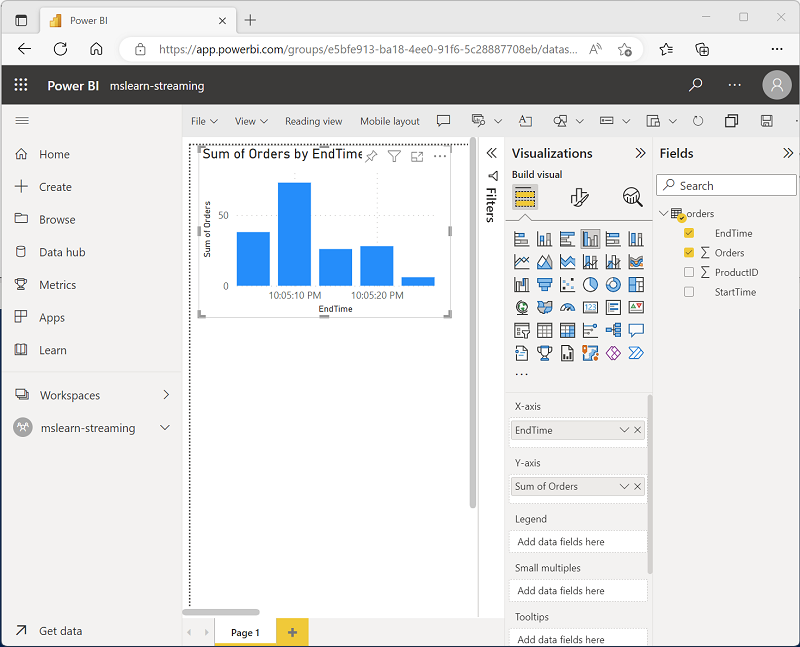
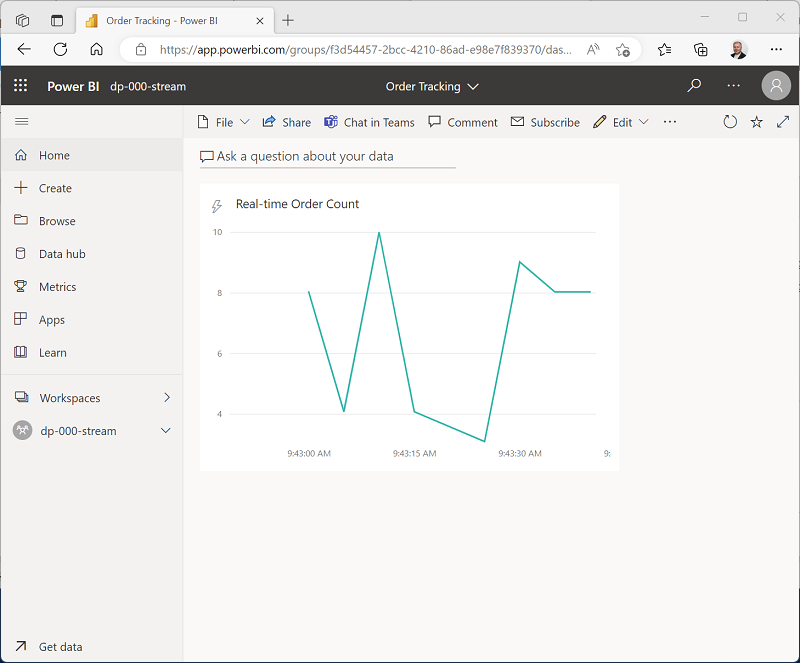
Updated to use real-time dashboard

diff --git a/Instructions/Labs/03-Stream-Power-BI.md b/Instructions/Labs/03-Stream-Power-BI.md
@@ -122,12 +122,12 @@ An Azure Stream Analytics job defines a perpetual query that operates on streami
     INTO
         [powerbi-dataset]
     FROM
-        [orders] TIMESTAMP BY EventProcessedUtcTime
+        [orders] TIMESTAMP BY EventEnqueuedUtcTime
     GROUP BY ProductID, TumblingWindow(second, 5)
     HAVING COUNT(*) > 1
     ```
 
-    Observe that this query uses the **System.Timestamp** (based on the **EventProcessedUtcTime** field) to define the start and end of each 5 second *tumbling* (non-overlapping sequential) window in which the total quantity for each product ID is calculated.
+    Observe that this query uses the **System.Timestamp** (based on the **EventEnqueuedUtcTime** field) to define the start and end of each 5 second *tumbling* (non-overlapping sequential) window in which the total quantity for each product ID is calculated.
 
 3. Save the query.
 
@@ -138,7 +138,7 @@ An Azure Stream Analytics job defines a perpetual query that operates on streami
 3. Re-open the cloud shell pane and re-run the following command to submit 100 orders.
 
     ```
-    node ~/dp-000/Allfiles/Labs/22/orderclient
+    node ~/dp-000/Allfiles/Labs/03/orderclient
     ```
 
 4. While the order client app is running, switch to the Power BI app browser tab and view your workspace.
@@ -146,30 +146,33 @@ An Azure Stream Analytics job defines a perpetual query that operates on streami
 
 ## Visualize the streaming data in Power BI
 
-Now that you have a dataset for the streaming order data, you can create a Power BI report that represents it visually.
+Now that you have a dataset for the streaming order data, you can create a Power BI dashboard that represents it visually.
 
-1. Use the **...** menu for the **realtime-data** dataset to create a report.
-2. In the **Visualizations** pane, select the **Clustered column chart** visualization.
-3. In the **Fields** pane, expand the **orders** table, and then drag the following fields to the appropriate areas in the **Visualizations** pane:
-    - **X-axis** : **EndTime**
-    - **Y-axis**: **&#8721; Orders** (this will be interpreted as *Sum of Orders*)
+1. In the **+ New** drop-down menu for your workspace, select **Dashboard**, and create a new dashboard named **Order Tracking**.
+2. In the **&#9999;&#65039; Edit** menu for the **Order Tracking** dashboard, select **Add a tile**. Then in the **Add a tile** pane, select **Custom Streaming Data** and click **Next**:
 
-4. Verify that your report shows the sum of orders for each 5-second interval, and looks similar to this:
+    ![A screenshot of the Add a tile pane in Power BI.](./images/powerbi-stream-tile.png)
 
-    ![A screenshot of a Power BI report with a clustered column chart showing sum of orders by end time.](./images/powerbi-line-chart.png)
+3. In the **Add a custom streaming data tile** pane, under **Your datasets**, select the **realtime-data** dataset, and click **Next**.
 
-5. Save the report, naming it **Realtime Orders**.
+4. Change the default visualization type to **Line chart**. Then set the following properties and click **Next**:
+    - **Axis**: EndTime
+    - **Value**: Orders
+    - **Time window to display**: 1 Minute
+
+5. On the **Tile details** pane, set the **Title** to **Real-time Order Count** and click **Apply**.
+
 6. Switch back to the browser tab containing the Azure portal, and if necessary, re-open the cloud shell pane. Then re-run the following command to submit another 100 orders.
 
     ```
     node ~/dp-000/Allfiles/Labs/03/orderclient
     ```
 
-7. While the order submission script is running, switch back to the browser tab containing the **Realtime Orders** Power BI report and refresh it; verifying that the visualization updates to reflect the new order data as it is processed by the Stream Analytics job (which should still be running).
+7. While the order submission script is running, switch back to the browser tab containing the **Order Tracking** Power BI dashboard and observe that the visualization updates to reflect the new order data as it is processed by the Stream Analytics job (which should still be running).
 
-    ![A screenshot of a Power BI report showing a realtime stream of order data.](./images/powerbi-stream-report.png)
+    ![A screenshot of a Power BI report showing a realtime stream of order data.](./images/powerbi-line-chart.png)
 
-    In this exercise, you've created a simple visualization. You could create a report that includes multiple visualizations based on the data in the streaming dataset. Whenever the report is viewed, the visualizations reflect the most recently captured data.
+    You can re-run the **orderclient** script and observe the data being captured in the real-time dashboard.
 
 ## Delete resources
 
